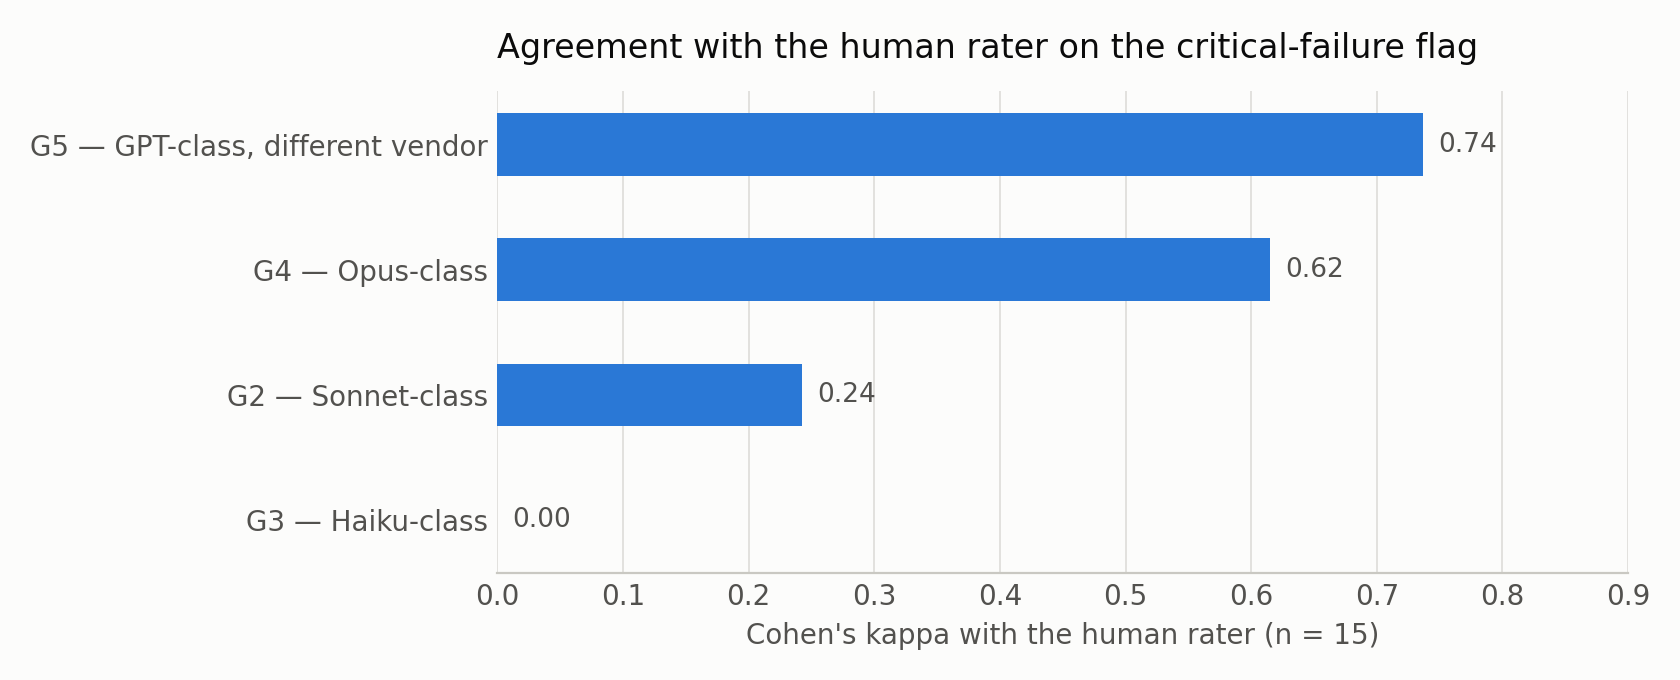
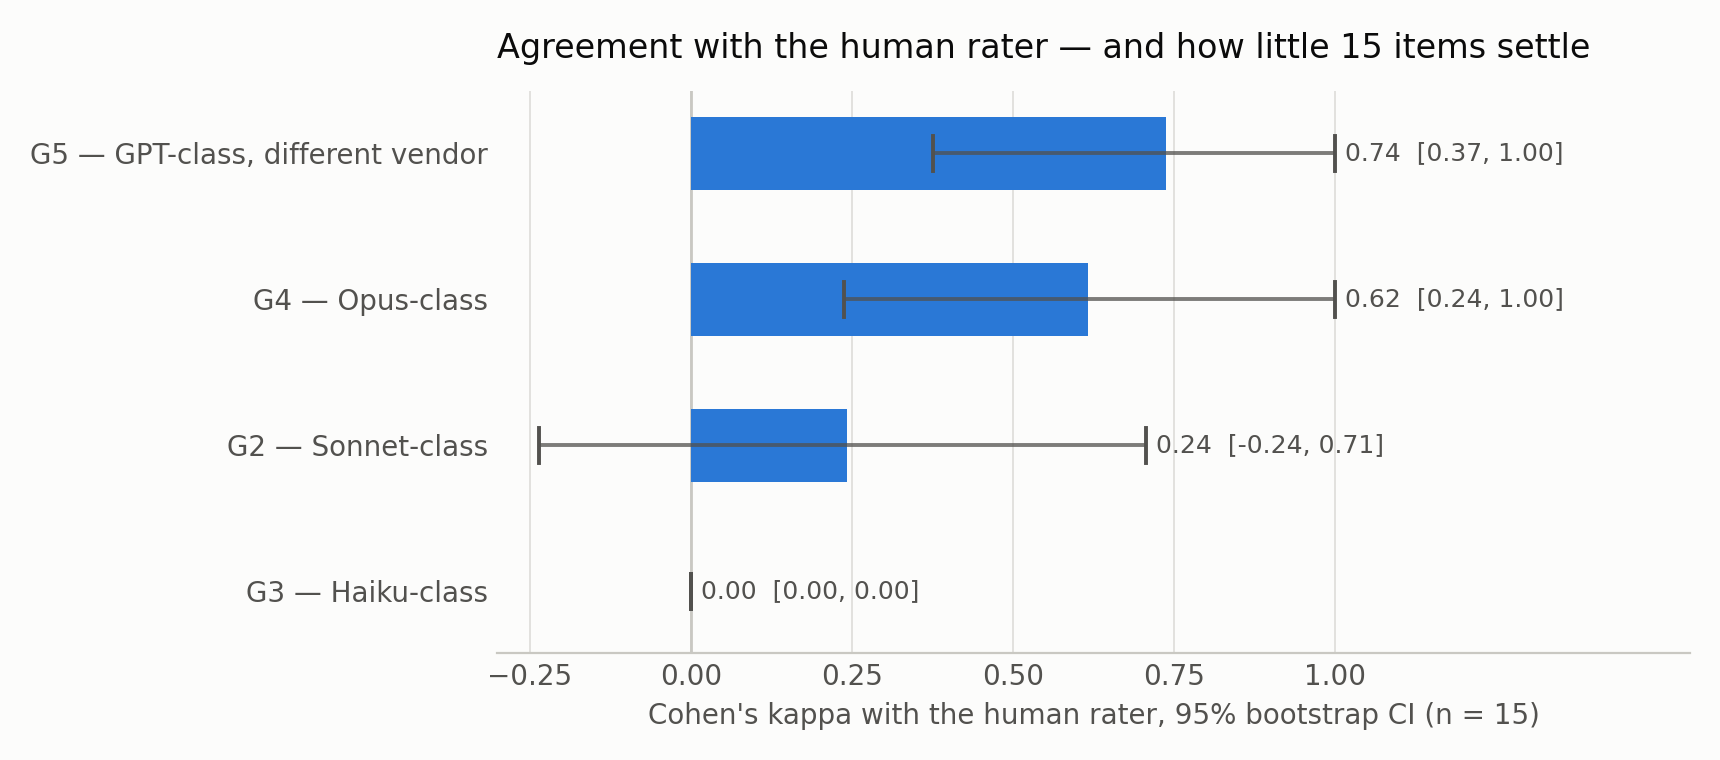
Report uncertainty on the human-agreement comparison and retract the ranking between the two strongest judges: the gap is one item and not distinguishable at n=15

diff --git a/src/analyze.py b/src/analyze.py
@@ -141,6 +141,58 @@ def main():
           f"only `{b}` **{sum(y)-bothf}**, neither **{len(pids)-sum(x)-sum(y)+bothf}**.\n")
     W("")
 
+    # ---------------- agreement with the human anchor ----------------
+    human = [r for r in raters if meta[r].get("model") == "human"]
+    if human and len(raters) > 2:
+        h = human[0]
+        others = [r for r in raters if r != h and not meta[r].get("variant_of")]
+        W("## 3a. Agreement with the human rater, with uncertainty\n")
+        W("The human pass is the study's only anchor outside the models, and it is "
+          "small. Point estimates alone would let a reader rank the judges more "
+          "confidently than the data allows, so the interval and the raw count of "
+          "disagreeing items are reported next to every coefficient.\n")
+        W(f"| Judge | Flag kappa vs `{h}` | 95% CI | Items scored differently | n |")
+        W("|---|---|---|---|---|")
+        rows = []
+        for r in others:
+            pids = both(r, h)
+            x = [int(grades[r][i]["critical_failure"]) for i in pids]
+            y = [int(grades[h][i]["critical_failure"]) for i in pids]
+            k = cohen_kappa(x, y, [0, 1])
+            ci = bootstrap_ci(lambda idx: cohen_kappa([x[j] for j in idx],
+                                                      [y[j] for j in idx], [0, 1]),
+                              len(pids), n_boot=10000)
+            diff = sum(1 for u, v in zip(x, y) if u != v)
+            rows.append((r, k, ci, diff, len(pids)))
+        for r, k, ci, diff, n in sorted(rows, key=lambda t: -t[1]):
+            W(f"| `{r}` | {fmt(k,2)} | [{fmt(ci[0],2)}, {fmt(ci[1],2)}] | {diff} of {n} | {n} |")
+        W("")
+        top = sorted(rows, key=lambda t: -t[1])[:2]
+        if len(top) == 2:
+            (ra, ka, _, da, _), (rb, kb, _, db, _) = top
+            pids = [i for i in both(ra, h) if i in grades[rb]]
+            hv = [int(grades[h][i]["critical_failure"]) for i in pids]
+            av = [int(grades[ra][i]["critical_failure"]) for i in pids]
+            bv = [int(grades[rb][i]["critical_failure"]) for i in pids]
+            rng = np.random.default_rng(11)
+            ds = []
+            for _ in range(10000):
+                idx = rng.integers(0, len(pids), len(pids))
+                d = (cohen_kappa([av[j] for j in idx], [hv[j] for j in idx], [0, 1])
+                     - cohen_kappa([bv[j] for j in idx], [hv[j] for j in idx], [0, 1]))
+                if d == d:
+                    ds.append(d)
+            lo, hi = np.percentile(ds, [2.5, 97.5])
+            pgt = float(np.mean(np.array(ds) > 0))
+            W(f"**Is `{ra}` actually better than `{rb}`?** Paired bootstrap on the "
+              f"difference: **{ka-kb:+.2f}**, 95% CI **[{lo:.2f}, {hi:.2f}]**, "
+              f"P(`{ra}` > `{rb}`) = **{pgt:.2f}**. In raw terms `{ra}` differs from "
+              f"the human on **{da}** items and `{rb}` on **{db}**. The gap between "
+              "the two strongest judges is one or two items and is **not "
+              "distinguishable from noise at this sample size**. What the data does "
+              "separate is strong judges from the low-cost one, and that gap is "
+              "large.\n")
+
     # ---------------- multi-rater ----------------
     if len(headline) >= 3:
         W("## 4. Multi-rater agreement\n")

diff --git a/src/figures.py b/src/figures.py
@@ -79,21 +79,30 @@ def fig_human_agreement(grades, judges, out):
         ids = sorted(set(grades[r]) & set(grades["GH"]))
         if len(ids) < 5:
             continue
-        k = cohen_kappa([int(grades[r][i]["critical_failure"]) for i in ids],
-                        [int(grades["GH"][i]["critical_failure"]) for i in ids], [0, 1])
-        rows.append((r, k, len(ids)))
+        x = [int(grades[r][i]["critical_failure"]) for i in ids]
+        y = [int(grades["GH"][i]["critical_failure"]) for i in ids]
+        k = cohen_kappa(x, y, [0, 1])
+        lo, hi = bootstrap_ci(lambda idx: cohen_kappa([x[j] for j in idx],
+                                                      [y[j] for j in idx], [0, 1]),
+                              len(ids), n_boot=10000)
+        rows.append((r, k, len(ids), lo, hi))
     rows.sort(key=lambda t: t[1])
-    fig, ax = plt.subplots(figsize=(8.4, 3.4))
+    fig, ax = plt.subplots(figsize=(8.6, 3.8))
     ypos = np.arange(len(rows))
-    bars = ax.barh(ypos, [k for _, k, _ in rows], height=.5, color=SERIES[0], zorder=3)
-    for rect, (_, k, _) in zip(bars, rows):
-        ax.text(max(k, 0) + .012, rect.get_y() + rect.get_height() / 2, f"{k:.2f}",
-                va="center", ha="left", fontsize=9.5, color=INK_2)
+    ax.barh(ypos, [k for _, k, _, _, _ in rows], height=.5, color=SERIES[0], zorder=3)
+    for yy, (_, k, _, lo, hi) in zip(ypos, rows):
+        ax.plot([lo, hi], [yy, yy], color=INK_2, lw=1.4, alpha=.75, zorder=5,
+                solid_capstyle="butt")
+        for e in (lo, hi):
+            ax.plot([e, e], [yy - .12, yy + .12], color=INK_2, lw=1.4, zorder=5)
+        ax.text(max(hi, k) + .015, yy, f"{k:.2f}  [{lo:.2f}, {hi:.2f}]",
+                va="center", ha="left", fontsize=9, color=INK_2)
     ax.set_yticks(ypos)
-    ax.set_yticklabels([f"{r} — {m}" for (r, _, _), m in
-                        zip(rows, [MODEL_SHORT.get(r, r) for r, _, _ in rows])])
-    ax.set_xlim(0, 0.9); ax.set_xlabel("Cohen's kappa with the human rater (n = 15)")
-    ax.set_title("Agreement with the human rater on the critical-failure flag",
+    ax.set_yticklabels([f"{r} — {MODEL_SHORT.get(r, r)}" for r, _, _, _, _ in rows])
+    ax.set_xlim(-0.3, 1.55); ax.set_xticks([-0.25, 0, 0.25, .5, .75, 1])
+    ax.set_xlabel("Cohen's kappa with the human rater, 95% bootstrap CI (n = 15)")
+    ax.axvline(0, color=MUTED, lw=1, zorder=1)
+    ax.set_title("Agreement with the human rater — and how little 15 items settle",
                  loc="left", fontsize=12, color=INK, pad=12)
     _clean(ax)
     fig.tight_layout(); fig.savefig(out, dpi=200); plt.close(fig)
@@ -153,7 +162,7 @@ def fig_agreement(grades, pair, ids, meta, out):
     ax.set_yticks(ypos); ax.set_yticklabels(names)
     ax.set_ylim(len(names) - 0.35, -0.75)
     ax.set_xlim(-0.15, 1.0); ax.set_xlabel("Agreement coefficient")
-    ax.set_title(f"Best case: the two strongest independent judges ({a} vs {b})",
+    ax.set_title(f"Best case: the two strongest judges, one per vendor ({a} vs {b})",
                  loc="left", fontsize=12, color=INK, pad=34)
     ax.legend(frameon=False, loc="upper left", bbox_to_anchor=(0, 1.11),
               ncol=2, fontsize=9, handletextpad=.4, columnspacing=1.6)

diff --git a/METHODOLOGY.md b/METHODOLOGY.md
@@ -1,8 +1,8 @@
-# Measuring whether two AI judges agree about legal answers
+# Do two AI judges scoring legal answers measure the same thing?
 
 A small, complete evaluation study: 40 legal questions, a written rubric, a system
-under test, two independent model judges, and the inter-rater statistics that say
-whether the judges are measuring the same thing.
+under test, four model judges across two vendors, a human rater, and the
+inter-rater statistics that say whether the judges are measuring the same thing.
 
 ---
 
@@ -133,32 +133,52 @@ to the Sonnet-class judge (1.07). Item by item it is not close:
 
 | Against the human rater (n=15) | GPT-class (other vendor) | Opus-class | Sonnet-class | Haiku-class |
 |---|---|---|---|---|
-| Critical-failure flag (kappa) | **0.74** | 0.62 | 0.24 | **0.00** |
+| Critical-failure flag (kappa) | **0.74** [0.37, 1.00] | **0.62** [0.24, 1.00] | 0.24 [-0.24, 0.71] | **0.00** |
+| Items scored differently from her | 2 of 15 | 3 of 15 | 5 of 15 | 9 of 15 |
 | Legal accuracy (kappa_w) | 0.75 | 0.58 | 0.47 | 0.10 |
 | Jurisdictional grounding (kappa_w) | 0.19 | 0.62 | 0.57 | 0.00 |
 
+The two leading intervals overlap almost entirely; see finding 4 for why they
+should not be ranked against each other.
+
 The low-cost judge flagged **none** of the nine items she flagged as critical
 failures. The two strongest judges produced **no false positives** against her:
-every item either of them flagged, she flagged too; they only missed items. For a
+every item either of them flagged, she flagged too; they only missed items. That
+is six or seven flags each with none misplaced - suggestive, and nowhere near
+enough flags to establish a false-positive rate. For a
 release gate that asymmetry is the property worth knowing, and it is invisible in
 any aggregate score. On 15 items against a non-expert rater this is exploratory
 evidence, not an established effect - see L4 through L8. The jurisdictional-
 grounding row shows the fragility directly: the judge that tracks her best on the
 flag tracks her worst on that dimension.
 
-**4. The pattern is not an artefact of one vendor.** Adding a GPT-class judge from
-a different vendor was the test of whether findings 2 and 3 were a property of the
-Claude family. They were not, and the cross-vendor arm strengthened them:
+**4. The pattern is not an artefact of one vendor - but the ranking within the
+strong judges is not real.** Adding a GPT-class judge from a different vendor was
+the test of whether findings 2 and 3 were a property of the Claude family. They
+were not:
 
-- It agreed with the human **better than any Claude judge** (flag kappa 0.74).
+- It agreed with the human at the top of the panel (flag kappa **0.74**, 95% CI
+  [0.37, 1.00]), alongside the Opus-class judge (**0.62**, [0.24, 1.00]).
 - It agreed with the Opus-class judge (flag kappa **0.55**) more than the two
   Claude judges of different tiers agreed with each other (**0.24**). Capability
   tier separates judges more than vendor does.
-- It was the **strictest** judge on legal accuracy (mean 0.97, against 1.43 for
-  Opus-class and 2.50 for Haiku-class), and it has no family relationship to the
-  system under test - so its strictness cannot be explained by self-preference.
-- Against the low-cost judge it agrees with essentially nothing: weighted kappa
-  0.04 to 0.16 across every dimension.
+- It was the strictest judge on legal accuracy (mean **0.97**, against 1.43 for
+  Opus-class and 2.50 for Haiku-class), and it is the only judge with no family
+  relationship to the system under test - so its strictness has no
+  self-preference explanation, though a single model cannot rule out that this
+  vendor is simply harsher.
+- Against the low-cost judge it agrees with almost nothing: weighted kappa 0.04 to
+  0.16 on every dimension.
+
+**What this does not show.** The cross-vendor judge is *not* demonstrably better
+than the Opus-class judge. The difference is **+0.12 with a 95% CI of
+[-0.27, 0.52]** and P(better) = 0.61 - a coin flip. In raw terms one differs from
+the human on two items and the other on three: the entire gap is **one item out of
+fifteen**. Any write-up that ranks these two judges is reading noise. The
+separation the data does support is between the strong judges and the low-cost
+one, and that one is large - the Haiku-class judge flagged **none** of the nine
+items the human flagged, so its kappa of 0.00 is not chance-level agreement but a
+rater that never fired at all.
 
 **5. Agreement is worst on the two things a legal product most needs.** Even
 between the two strong model judges, the critical-failure flag reached kappa
@@ -237,10 +257,14 @@ An evaluation write-up that does not list them is not finished.
   judges that had the gold reference in front of them. The fix for a future pass
   is a fixed glossary written before any item is shown, containing no proposition
   that appears in a gold reference.
-- **L6 - three of her five dimensions carry almost no variance.** This also makes
-  some of her per-dimension agreement figures degenerate rather than impressive -
-  the 1.00 on issue completeness against the cross-vendor judge is two near-constant
-  raters coinciding, not a meaningful convergence. She scored issue
+- **L6 - three of her five dimensions carry almost no variance, which makes some
+  per-dimension coefficients meaningless rather than impressive.** Two examples
+  from the same comparison, the human against the cross-vendor judge: issue
+  completeness reads **1.00** because both raters put 14 of 15 items at the same
+  single value, and authority hygiene reads **-0.08** because she used two
+  categories where the judge used four (Gwet's AC2 on those same cells is 1.00 and
+  0.86). Neither number should be quoted as evidence of anything. Her anchoring
+  value rests on legal accuracy, jurisdictional grounding and the flag. She scored issue
   completeness 1 on 14 of 15 items, authority hygiene 1 on 13 of 15, and scope
   discipline 1 on 13 of 15. Kappa against a near-constant rater is close to
   uninformative, and where it came out high it is because the other rater is also
@@ -249,8 +273,13 @@ An evaluation write-up that does not list them is not finished.
   model judges and was not run for her: fifteen items in one sitting, no repeated
   items at the end, no calibration break. Her earlier ratings use more of the
   scale than her later ones, and drift cannot be separated from signal.
-- **L8 - the human pass covers 15 of 40 items.** Enough to rank the judges
-  against her; not enough to be precise about any single dimension.
+- **L8 - the human pass covers 15 of 40 items, and the subset is not a simple
+  random sample.** Fourteen items were drawn one per practice-area x
+  prompt-condition stratum; the fifteenth was chosen purposively as the item with
+  the widest spread across the model judges, which tilts the comparison set
+  slightly toward contentious items. At n=15 the interval on a flag kappa spans
+  roughly 0.5, which is wide enough that the panel can be split into strong and
+  weak but not ordered within those groups.
 
 **On the statistics**
 

diff --git a/README.md b/README.md
@@ -37,8 +37,9 @@ are how it got there.
 2. **Select judges on item-level agreement with a human, never on matching
    aggregate rates.** The two are actively misleading here: the judge that matched
    the human's average severity exactly was among those that agreed with her least,
-   and the best-agreeing judge came from a different vendor than the rest of the
-   panel. Judge selection is an empirical question, not a procurement default.
+   and a judge from outside the incumbent vendor landed at the top of the panel.
+   Judge selection is an empirical question, not a procurement default — and one
+   that needs more than fifteen anchored items to settle.
 3. **Route by tier rather than choosing one judge.** A low-cost judge tracks
    *relative* movement between releases at a fraction of the cost, but caught none
    of the human-flagged critical failures. Use it for regression signal; send
@@ -62,15 +63,18 @@ are how it got there.
    picked the wrong judge.** The human rater's mean legal-accuracy score is
    identical to the Sonnet-class judge (1.07). Item by item, agreement with her on
    the critical-failure flag ran **0.74** (cross-vendor GPT-class), **0.62**
-   (Opus-class), **0.24** (Sonnet-class), **0.00** (Haiku-class — it caught none of
-   the nine items she flagged). On 15 items against a non-expert rater this is
-   exploratory evidence, not an established effect.
+   (Opus-class), **0.24** (Sonnet-class), **0.00** (Haiku-class — it flagged none
+   of the nine items she flagged). At n = 15 the two leading intervals overlap
+   almost completely, so the two strong judges are **not** ranked against each
+   other; what separates is strong from low-cost, and that gap is large.
 4. **The pattern is not an artefact of one vendor.** A GPT-class judge from a
-   different vendor agreed with the human better than any Claude judge, agreed
-   with the Opus-class judge (flag kappa 0.55) more than the two Claude tiers
-   agreed with each other (0.24), and was the strictest judge of all — while being
-   the only judge with no family relationship to the system under test.
-   **Capability tier separates judges more than vendor does.**
+   different vendor landed at the top of the panel alongside the Opus-class judge,
+   agreed with that judge (flag kappa 0.55) more than the two Claude tiers agreed
+   with each other (0.24), and was the strictest judge of all — while being the
+   only judge with no family relationship to the system under test. **Capability
+   tier separates judges more than vendor does.** It is *not* demonstrably better
+   than the Opus-class judge: that difference is +0.12 with a 95% CI of
+   [−0.27, 0.52] and comes down to a single item out of fifteen.
 5. **A substantial share of the agreement was the answer key, not the law.**
    Removing the gold reference from a judge's prompt dropped its agreement with its
    own equipped self to 0.46–0.75, and collapsed authority hygiene from **1.00 to
@@ -120,7 +124,7 @@ Nothing in this repository is legal advice.
 
 ## Figures
 
-![Agreement with the human rater](results/figures/human_agreement.png)
+![Agreement with the human rater, with confidence intervals](results/figures/human_agreement.png)
 ![Same judge vs another vendor vs the human rater](results/figures/intra_vs_inter.png)
 ![Rater severity](results/figures/rater_severity.png)
 ![Critical-failure spread](results/figures/critical_failure_spread.png)

diff --git a/results/agreement_report.md b/results/agreement_report.md
@@ -238,6 +238,20 @@ Confusion on the flag: both raised **6**, only `G4` **0**, only `GH` **3**, neit
 Confusion on the flag: both raised **7**, only `G5` **0**, only `GH` **2**, neither **6**.
 
 
+## 3a. Agreement with the human rater, with uncertainty
+
+The human pass is the study's only anchor outside the models, and it is small. Point estimates alone would let a reader rank the judges more confidently than the data allows, so the interval and the raw count of disagreeing items are reported next to every coefficient.
+
+| Judge | Flag kappa vs `GH` | 95% CI | Items scored differently | n |
+|---|---|---|---|---|
+| `G5` | 0.74 | [0.37, 1.00] | 2 of 15 | 15 |
+| `G4` | 0.62 | [0.24, 1.00] | 3 of 15 | 15 |
+| `G1` | 0.39 | [0.09, 0.74] | 5 of 15 | 15 |
+| `G2` | 0.24 | [-0.24, 0.71] | 5 of 15 | 15 |
+| `G3` | 0.00 | [0.00, 0.00] | 9 of 15 | 15 |
+
+**Is `G5` actually better than `G4`?** Paired bootstrap on the difference: **+0.12**, 95% CI **[-0.27, 0.52]**, P(`G5` > `G4`) = **0.61**. In raw terms `G5` differs from the human on **2** items and `G4` on **3**. The gap between the two strongest judges is one or two items and is **not distinguishable from noise at this sample size**. What the data does separate is strong judges from the low-cost one, and that gap is large.
+
 ## 4. Multi-rater agreement
 
 Computed over the independent raters: `G2`, `G3`, `G4`, `G5`, `GH`. Krippendorff's alpha uses every rating, including raters who covered only part of the set - handling missing cells natively is why it is the right headline statistic here. Fleiss' kappa requires complete cases and is computed over `G2`, `G3`, `G4`, `G5` on all 40 items.
